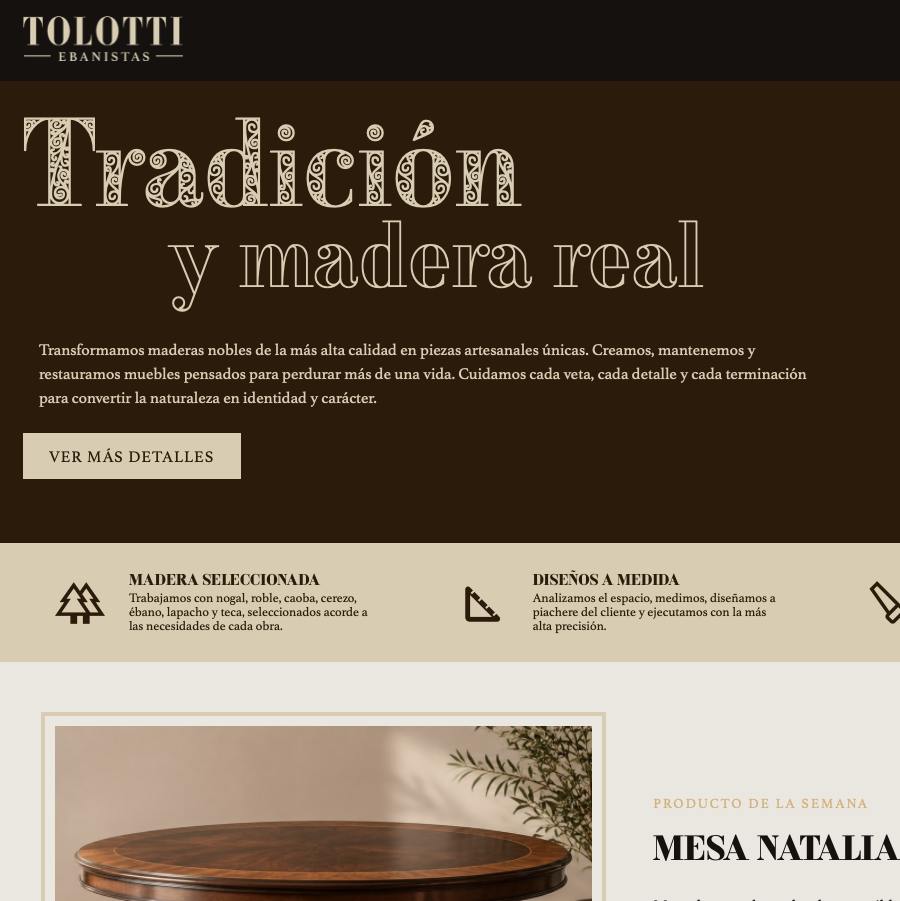
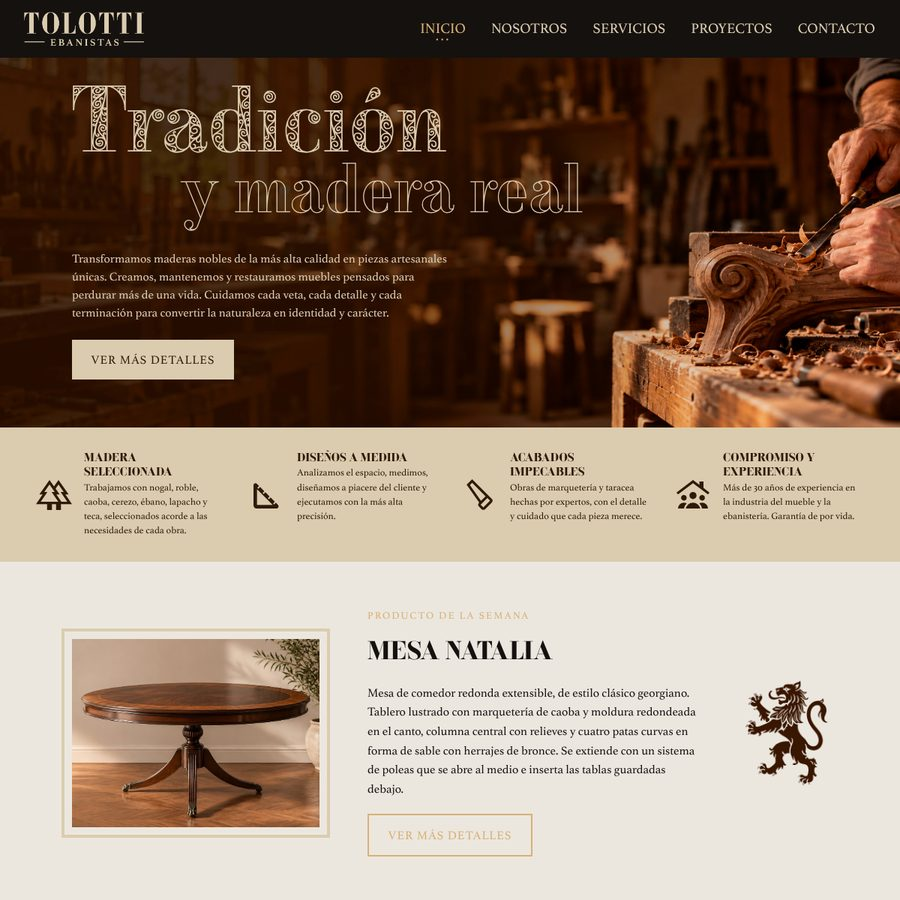
fix: actualizar la captura de Tolotti Ebanistas
Se reemplaza proyecto-2.jpg por una captura actual del inicio del sitio y se actualiza su texto alternativo.

diff --git a/pages/proyectos.html b/pages/proyectos.html
@@ -43,7 +43,7 @@
             <article>
                 <h3><a href="https://github.com/agostinatolotti/proyecto-css-agostinatolotti">Tolotti Ebanistería</a></h3>
                 <p><time datetime="2026-10-01">01/10/2026</time> - Página web [Ejercicio Académico]</p>
-                <img src="../assets/images/proyecto-2.jpg" alt="Portada del sitio Tolotti Ebanistas, con el título Tradición y madera real y una mesa de madera destacada" width="300">
+                <img src="../assets/images/proyecto-2.jpg" alt="Portada del sitio Tolotti Ebanistas, con el título Tradición y madera real sobre la foto de un artesano tallando madera" width="300">
             </article>
 
             <article>
